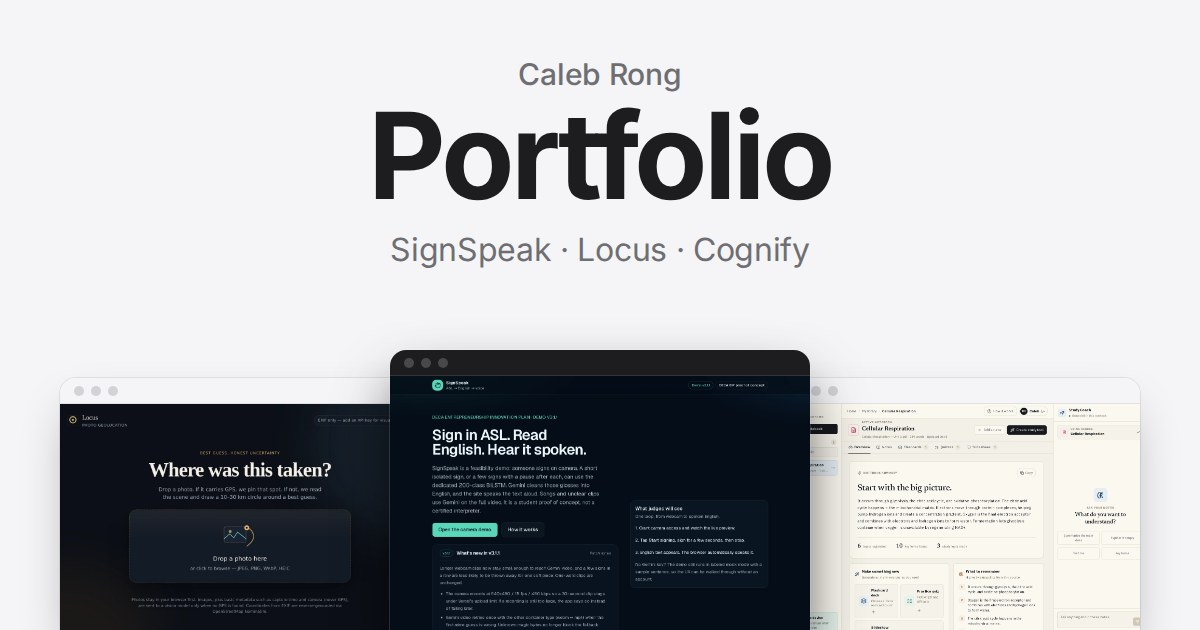
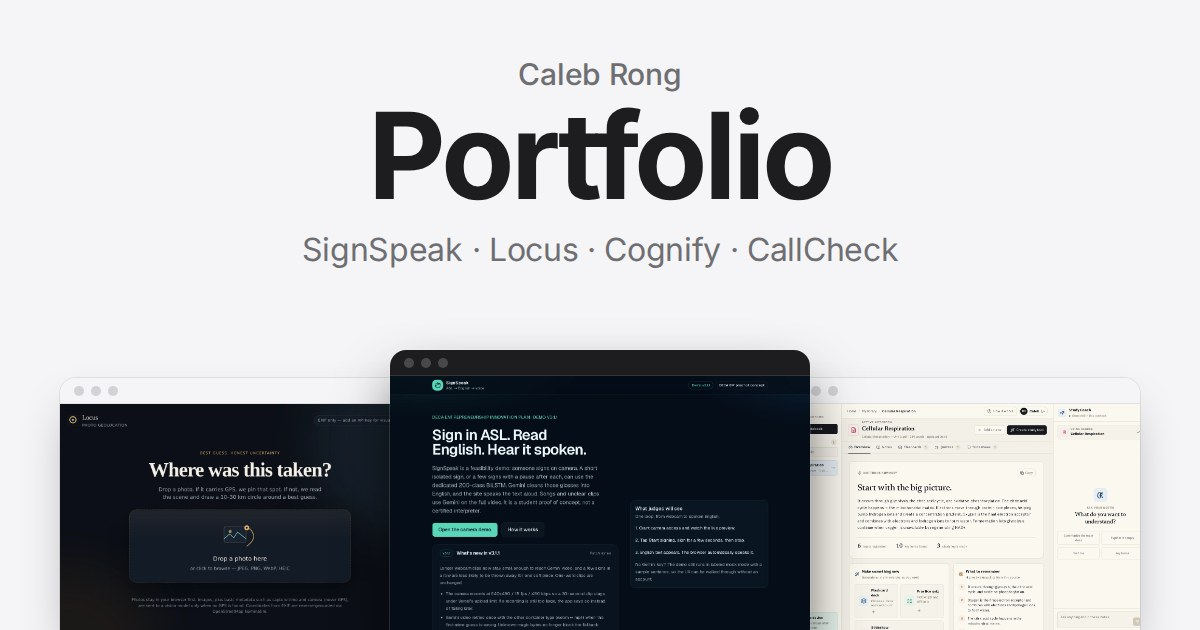
Add CallCheck to the portfolio (#8)
- New /callcheck/ project page: overview, key numbers, how it works,
  call and scorecard screenshots, technical details, tech specs and
  links to the live app and source
- Home page: full-width CallCheck tile after Locus and Cognify
- CallCheck link in the global nav and every footer; Cognify's "Next
  project" now leads to CallCheck, which leads back to SignSpeak
- Hide "Contact" in the phone nav and tighten link padding so the extra
  item fits at 320px (Contact stays in the footer and on the home page)
- Screenshots of CallCheck's redesigned UI, a CallCheck link preview
  image, and the home preview subtitle now lists all four projects

Claude-Session: https://claude.ai/code/session_01L9kaBhpDBJzvKAb4rFdhd9

Changed region(s): [[0.2467, 0.3619, 0.74, 0.4222]]

diff --git a/callcheck/index.html b/callcheck/index.html
@@ -1,0 +1,209 @@
+<!doctype html>
+<html lang="en">
+<head>
+  <meta charset="utf-8">
+  <meta name="viewport" content="width=device-width, initial-scale=1">
+  <meta name="theme-color" content="#fbfbfd">
+  <title>CallCheck — Caleb Rong</title>
+  <meta name="description" content="CallCheck is a robot mystery shopper for a business phone line: it calls as an ordinary customer, then grades the call and coaches staff on answer speed, greeting, accuracy and booking.">
+  <meta property="og:title" content="CallCheck — Caleb Rong">
+  <meta property="og:description" content="Find out how your phone is answered when you're not there.">
+  <meta property="og:type" content="website">
+  <meta property="og:site_name" content="Caleb Rong">
+  <meta property="og:url" content="https://www.caleb-rong.com/callcheck/">
+  <meta property="og:image" content="https://www.caleb-rong.com/assets/og/callcheck.jpg">
+  <meta property="og:image:width" content="1200">
+  <meta property="og:image:height" content="630">
+  <meta property="og:image:alt" content="CallCheck: Find out how your phone is answered when you're not there.">
+  <meta name="twitter:card" content="summary_large_image">
+  <link rel="canonical" href="https://www.caleb-rong.com/callcheck/">
+  <link rel="icon" href="/assets/favicon.svg" type="image/svg+xml">
+  <link rel="apple-touch-icon" href="/assets/apple-touch-icon.png">
+  <link rel="preload" href="/assets/fonts/Inter-Variable.woff2" as="font" type="font/woff2" crossorigin>
+  <link rel="stylesheet" href="/styles.css">
+  <script src="/assets/site.js" defer></script>
+</head>
+<body>
+  <a class="skip-link" href="#main">Skip to content</a>
+
+  <nav class="globalnav" aria-label="Global">
+    <ul class="globalnav-list">
+      <li><a class="brand" href="/">Caleb Rong</a></li>
+      <li><a href="/signspeak/">SignSpeak</a></li>
+      <li><a href="/locus/">Locus</a></li>
+      <li><a href="/cognify/">Cognify</a></li>
+      <li><a href="/callcheck/" aria-current="page">CallCheck</a></li>
+      <li class="hide-small"><a href="/#contact">Contact</a></li>
+    </ul>
+  </nav>
+
+  <nav class="localnav" aria-label="CallCheck">
+    <div class="container localnav-inner">
+      <a class="localnav-title" href="#top">CallCheck</a>
+      <div class="localnav-menu">
+        <a href="#overview">Overview</a>
+        <a href="#how-it-works">How it works</a>
+        <a href="#specs">Tech specs</a>
+        <a class="button button-small" href="https://callcheck-ten.vercel.app" target="_blank" rel="noopener noreferrer">Try CallCheck<span class="sr-only"> (opens in a new tab)</span></a>
+      </div>
+    </div>
+  </nav>
+
+  <main id="main">
+    <section class="project-hero section-alt" id="top" aria-labelledby="page-title">
+      <div class="container">
+        <p class="eyebrow">Small business · Voice AI</p>
+        <h1 class="headline-hero" id="page-title">CallCheck</h1>
+        <p class="subhead">Find out how your phone is answered when you're not there.</p>
+        <div class="ctas">
+          <a class="button" href="https://callcheck-ten.vercel.app" target="_blank" rel="noopener noreferrer">Try CallCheck<span class="sr-only"> (opens in a new tab)</span></a>
+          <a class="button button-secondary" href="https://github.com/plut0000/callcheck" target="_blank" rel="noopener noreferrer">View on GitHub<span class="sr-only"> (opens in a new tab)</span></a>
+        </div>
+      </div>
+      <div class="project-hero-media">
+        <div class="frame">
+          <div class="frame-bar" aria-hidden="true"><i></i><i></i><i></i></div>
+          <img src="/assets/img/callcheck-landing.webp" alt="CallCheck landing page: Find out how your phone is answered when you're not there, with a sample scorecard below." width="2880" height="1800">
+        </div>
+      </div>
+    </section>
+
+    <section class="section" id="overview" aria-label="Overview">
+      <div class="container">
+        <p class="intro reveal">CallCheck is a robot mystery shopper for a business phone line. It <strong>calls as an ordinary customer</strong>, then <strong>grades the call and coaches the team</strong> on how fast they picked up, how they greeted, whether the facts were right and whether they offered a time.</p>
+      </div>
+    </section>
+
+    <section class="section section-alt" aria-labelledby="highlights-title">
+      <div class="container">
+        <div class="section-header center reveal">
+          <h2 class="headline-section" id="highlights-title">Built for any front desk.</h2>
+          <p>Ready-made setups for dealerships, salons, restaurants, clinics and home services, plus a custom mode for anything else.</p>
+        </div>
+        <dl class="stats reveal">
+          <div class="stat"><dt>Areas graded on every call</dt><dd>4</dd></div>
+          <div class="stat"><dt>Industry presets, plus custom</dt><dd>5</dd></div>
+          <div class="stat"><dt>Ways to test: call in or call out</dt><dd>2</dd></div>
+          <div class="stat"><dt>API keys needed for demo mode</dt><dd>0</dd></div>
+        </dl>
+      </div>
+    </section>
+
+    <section class="section" id="how-it-works" aria-labelledby="how-title">
+      <div class="container">
+        <div class="section-header reveal">
+          <h2 class="headline-section" id="how-title">How it works.</h2>
+          <p>Set up the facts, let an AI caller ring the business, and get a scorecard when it hangs up.</p>
+        </div>
+        <div class="cards reveal">
+          <article class="card">
+            <p class="card-step">Step 1</p>
+            <h3>Set up the call.</h3>
+            <p>Pick an industry and a scenario, like booking a service appointment, then enter what staff should say: hours, prices and current offers.</p>
+          </article>
+          <article class="card">
+            <p class="card-step">Step 2</p>
+            <h3>Let the shopper call.</h3>
+            <p>A Vapi voice assistant phones the business as a regular customer, or staff call it from the business line. The call is recorded and transcribed.</p>
+          </article>
+          <article class="card">
+            <p class="card-step">Step 3</p>
+            <h3>Get the scorecard.</h3>
+            <p>The transcript is graded against the facts you entered, with a letter grade, the top fixes and a line staff can practise for each one.</p>
+          </article>
+        </div>
+      </div>
+    </section>
+
+    <section class="section section-alt" aria-labelledby="gallery-title">
+      <div class="container">
+        <div class="section-header center reveal">
+          <h2 class="headline-section" id="gallery-title">From the call to the coaching.</h2>
+          <p>Watch the transcript come in as the call happens, then see exactly what to fix.</p>
+        </div>
+        <div class="gallery reveal">
+          <figure>
+            <div class="frame"><img src="/assets/img/callcheck-call.webp" alt="CallCheck call screen showing a car dealership call transcript as message bubbles, with a timer." width="2880" height="1800" loading="lazy"></div>
+            <figcaption><strong>Live transcript</strong>Staff and caller lines appear as the call goes. Demo mode simulates the call, so nothing is dialed.</figcaption>
+          </figure>
+          <figure>
+            <div class="frame"><img src="/assets/img/callcheck-scorecard.webp" alt="CallCheck scorecard with a D grade, four category scores, fixes and practice tips." width="2880" height="1800" loading="lazy"></div>
+            <figcaption><strong>Scorecard and coaching</strong>Scores for each area, the fixes that matter most, and lines to read aloud at the start of a shift.</figcaption>
+          </figure>
+        </div>
+      </div>
+    </section>
+
+    <section class="section" aria-labelledby="hood-title">
+      <div class="container">
+        <div class="section-header reveal">
+          <h2 class="headline-section" id="hood-title">Under the hood.</h2>
+        </div>
+        <div class="cards two reveal">
+          <article class="card">
+            <h3>One config per industry.</h3>
+            <p>Each industry defines its fact fields, scenarios, caller persona, grading rubric and coaching lines. The demo scripts and the scorer are generated from the same config.</p>
+          </article>
+          <article class="card">
+            <h3>Two ways to grade.</h3>
+            <p>An OpenAI model scores each call against the industry's rubric. Without a key, a deterministic rule-based scorer checks the same four areas.</p>
+          </article>
+          <article class="card">
+            <h3>Live transcripts.</h3>
+            <p>Vapi sends call events to an authenticated webhook that keeps each call's transcript in private Vercel Blob storage, so the page updates every second.</p>
+          </article>
+          <article class="card">
+            <h3>Consent built in.</h3>
+            <p>Every test needs a consent checkbox, real calls need an access code, and the server refuses a live call without consent. Public demo scoring is rate-limited.</p>
+          </article>
+        </div>
+      </div>
+    </section>
+
+    <section class="section section-alt" id="specs" aria-labelledby="specs-title">
+      <div class="container">
+        <div class="section-header reveal">
+          <h2 class="headline-section" id="specs-title">Tech specs.</h2>
+        </div>
+        <dl class="specs reveal">
+          <div><dt>Frontend</dt><dd>Next.js 14, React 18, TypeScript, Tailwind CSS</dd></div>
+          <div><dt>Voice calls</dt><dd>Vapi for outbound and inbound calls, recording and transcripts</dd></div>
+          <div><dt>Scoring</dt><dd>OpenAI model with an industry rubric, or a rule-based scorer</dd></div>
+          <div><dt>Live updates</dt><dd>Vapi webhooks with Vercel Blob storage</dd></div>
+          <div><dt>Call history</dt><dd>Saved in the browser with localStorage</dd></div>
+          <div><dt>Hosting</dt><dd>Vercel</dd></div>
+        </dl>
+      </div>
+    </section>
+
+    <section class="cta-band" aria-labelledby="cta-title">
+      <div class="container reveal">
+        <h2 class="headline" id="cta-title">Try CallCheck.</h2>
+        <div class="ctas">
+          <a class="button" href="https://callcheck-ten.vercel.app" target="_blank" rel="noopener noreferrer">Run a demo call<span class="sr-only"> (opens in a new tab)</span></a>
+          <a class="button button-secondary" href="https://github.com/plut0000/callcheck" target="_blank" rel="noopener noreferrer">View source<span class="sr-only"> (opens in a new tab)</span></a>
+        </div>
+      </div>
+    </section>
+
+    <div class="container next-project">
+      <div><span>Next project</span><a class="more" href="/signspeak/">SignSpeak</a></div>
+      <a class="more" href="/">All projects</a>
+    </div>
+  </main>
+
+  <footer class="footer">
+    <div class="container">
+      <ul class="footer-links">
+        <li><a href="/signspeak/">SignSpeak</a></li>
+        <li><a href="/locus/">Locus</a></li>
+        <li><a href="/cognify/">Cognify</a></li>
+        <li><a href="/callcheck/">CallCheck</a></li>
+        <li><a href="https://www.linkedin.com/in/calebrong/" target="_blank" rel="noopener noreferrer">LinkedIn</a></li>
+        <li><a href="https://github.com/plut0000" target="_blank" rel="noopener noreferrer">GitHub</a></li>
+      </ul>
+      <p>Copyright © 2026 Caleb Rong. All rights reserved.</p>
+    </div>
+  </footer>
+</body>
+</html>

diff --git a/index.html b/index.html
@@ -5,7 +5,7 @@
   <meta name="viewport" content="width=device-width, initial-scale=1">
   <meta name="theme-color" content="#fbfbfd">
   <title>Caleb Rong — Portfolio</title>
-  <meta name="description" content="Portfolio of Caleb Rong: SignSpeak (ASL to spoken English), Locus (photo geolocation) and Cognify (AI study workspace).">
+  <meta name="description" content="Portfolio of Caleb Rong: SignSpeak (ASL to spoken English), Locus (photo geolocation), Cognify (AI study workspace) and CallCheck (phone mystery shopping).">
   <meta property="og:title" content="Caleb Rong — Portfolio">
   <meta property="og:description" content="Software projects in computer vision and applied AI.">
   <meta property="og:type" content="website">
@@ -14,7 +14,7 @@
   <meta property="og:image" content="https://www.caleb-rong.com/assets/og/home.jpg">
   <meta property="og:image:width" content="1200">
   <meta property="og:image:height" content="630">
-  <meta property="og:image:alt" content="Caleb Rong — Portfolio: SignSpeak, Locus and Cognify">
+  <meta property="og:image:alt" content="Caleb Rong — Portfolio: SignSpeak, Locus, Cognify and CallCheck">
   <meta name="twitter:card" content="summary_large_image">
   <link rel="canonical" href="https://www.caleb-rong.com/">
   <link rel="icon" href="/assets/favicon.svg" type="image/svg+xml">
@@ -32,7 +32,8 @@
       <li><a href="/signspeak/">SignSpeak</a></li>
       <li><a href="/locus/">Locus</a></li>
       <li><a href="/cognify/">Cognify</a></li>
-      <li><a href="#contact">Contact</a></li>
+      <li><a href="/callcheck/">CallCheck</a></li>
+      <li class="hide-small"><a href="#contact">Contact</a></li>
     </ul>
   </nav>
 
@@ -99,6 +100,21 @@
           </div>
         </section>
       </div>
+      <section class="tile tile-full" aria-labelledby="callcheck-title">
+        <p class="eyebrow">Small business · Voice AI</p>
+        <h2 id="callcheck-title">CallCheck</h2>
+        <p class="subhead">Find out how your phone is answered when you're not there.</p>
+        <div class="ctas">
+          <a class="button" href="/callcheck/">Learn more<span class="sr-only"> about CallCheck</span></a>
+          <a class="button button-secondary" href="https://callcheck-ten.vercel.app" target="_blank" rel="noopener noreferrer">Try CallCheck<span class="sr-only"> (opens in a new tab)</span></a>
+        </div>
+        <div class="tile-media">
+          <div class="frame">
+            <div class="frame-bar" aria-hidden="true"><i></i><i></i><i></i></div>
+            <img src="/assets/img/callcheck-scorecard.webp" alt="CallCheck scorecard for a sample car dealership call, with a D grade, category scores and practice tips." width="2880" height="1800" loading="lazy">
+          </div>
+        </div>
+      </section>
     </div>
 
     <section class="contact reveal" id="contact" aria-labelledby="contact-title">
@@ -119,6 +135,7 @@
         <li><a href="/signspeak/">SignSpeak</a></li>
         <li><a href="/locus/">Locus</a></li>
         <li><a href="/cognify/">Cognify</a></li>
+        <li><a href="/callcheck/">CallCheck</a></li>
         <li><a href="https://www.linkedin.com/in/calebrong/" target="_blank" rel="noopener noreferrer">LinkedIn</a></li>
         <li><a href="https://github.com/plut0000" target="_blank" rel="noopener noreferrer">GitHub</a></li>
       </ul>

diff --git a/cognify/index.html b/cognify/index.html
@@ -32,7 +32,8 @@
       <li><a href="/signspeak/">SignSpeak</a></li>
       <li><a href="/locus/">Locus</a></li>
       <li><a href="/cognify/" aria-current="page">Cognify</a></li>
-      <li><a href="/#contact">Contact</a></li>
+      <li><a href="/callcheck/">CallCheck</a></li>
+      <li class="hide-small"><a href="/#contact">Contact</a></li>
     </ul>
   </nav>
 
@@ -169,7 +170,7 @@
     </section>
 
     <div class="container next-project">
-      <div><span>Next project</span><a class="more" href="/signspeak/">SignSpeak</a></div>
+      <div><span>Next project</span><a class="more" href="/callcheck/">CallCheck</a></div>
       <a class="more" href="/">All projects</a>
     </div>
   </main>
@@ -180,6 +181,7 @@
         <li><a href="/signspeak/">SignSpeak</a></li>
         <li><a href="/locus/">Locus</a></li>
         <li><a href="/cognify/">Cognify</a></li>
+        <li><a href="/callcheck/">CallCheck</a></li>
         <li><a href="https://www.linkedin.com/in/calebrong/" target="_blank" rel="noopener noreferrer">LinkedIn</a></li>
         <li><a href="https://github.com/plut0000" target="_blank" rel="noopener noreferrer">GitHub</a></li>
       </ul>

diff --git a/locus/index.html b/locus/index.html
@@ -32,7 +32,8 @@
       <li><a href="/signspeak/">SignSpeak</a></li>
       <li><a href="/locus/" aria-current="page">Locus</a></li>
       <li><a href="/cognify/">Cognify</a></li>
-      <li><a href="/#contact">Contact</a></li>
+      <li><a href="/callcheck/">CallCheck</a></li>
+      <li class="hide-small"><a href="/#contact">Contact</a></li>
     </ul>
   </nav>
 
@@ -177,6 +178,7 @@
         <li><a href="/signspeak/">SignSpeak</a></li>
         <li><a href="/locus/">Locus</a></li>
         <li><a href="/cognify/">Cognify</a></li>
+        <li><a href="/callcheck/">CallCheck</a></li>
         <li><a href="https://www.linkedin.com/in/calebrong/" target="_blank" rel="noopener noreferrer">LinkedIn</a></li>
         <li><a href="https://github.com/plut0000" target="_blank" rel="noopener noreferrer">GitHub</a></li>
       </ul>

diff --git a/signspeak/index.html b/signspeak/index.html
@@ -32,7 +32,8 @@
       <li><a href="/signspeak/" aria-current="page">SignSpeak</a></li>
       <li><a href="/locus/">Locus</a></li>
       <li><a href="/cognify/">Cognify</a></li>
-      <li><a href="/#contact">Contact</a></li>
+      <li><a href="/callcheck/">CallCheck</a></li>
+      <li class="hide-small"><a href="/#contact">Contact</a></li>
     </ul>
   </nav>
 
@@ -193,6 +194,7 @@
         <li><a href="/signspeak/">SignSpeak</a></li>
         <li><a href="/locus/">Locus</a></li>
         <li><a href="/cognify/">Cognify</a></li>
+        <li><a href="/callcheck/">CallCheck</a></li>
         <li><a href="https://www.linkedin.com/in/calebrong/" target="_blank" rel="noopener noreferrer">LinkedIn</a></li>
         <li><a href="https://github.com/plut0000" target="_blank" rel="noopener noreferrer">GitHub</a></li>
       </ul>

diff --git a/404.html b/404.html
@@ -15,7 +15,8 @@
       <li><a href="/signspeak/">SignSpeak</a></li>
       <li><a href="/locus/">Locus</a></li>
       <li><a href="/cognify/">Cognify</a></li>
-      <li><a href="/#contact">Contact</a></li>
+      <li><a href="/callcheck/">CallCheck</a></li>
+      <li class="hide-small"><a href="/#contact">Contact</a></li>
     </ul>
   </nav>
   <main class="home-hero" id="main">

diff --git a/styles.css b/styles.css
@@ -980,6 +980,10 @@ img {
     display: none;
   }
 
+  .globalnav a {
+    padding: 0 6px;
+  }
+
   .next-project a {
     font-size: 24px;
   }

diff --git a/README.md b/README.md
@@ -1,12 +1,13 @@
 # Caleb Rong — Portfolio
 
-A static portfolio with a home page and a page for each project: SignSpeak, Locus and Cognify. Plain HTML and CSS, plus a few lines of JavaScript for scroll animations. No dependencies or build step.
+A static portfolio with a home page and a page for each project: SignSpeak, Locus, Cognify and CallCheck. Plain HTML and CSS, plus a few lines of JavaScript for scroll animations. No dependencies or build step.
 
 ```
 index.html            Home page
 signspeak/index.html  SignSpeak project page
 locus/index.html      Locus project page
 cognify/index.html    Cognify project page
+callcheck/index.html  CallCheck project page
 404.html              Not-found page
 styles.css            Shared styles
 assets/img/           Screenshots of each app (WebP)
